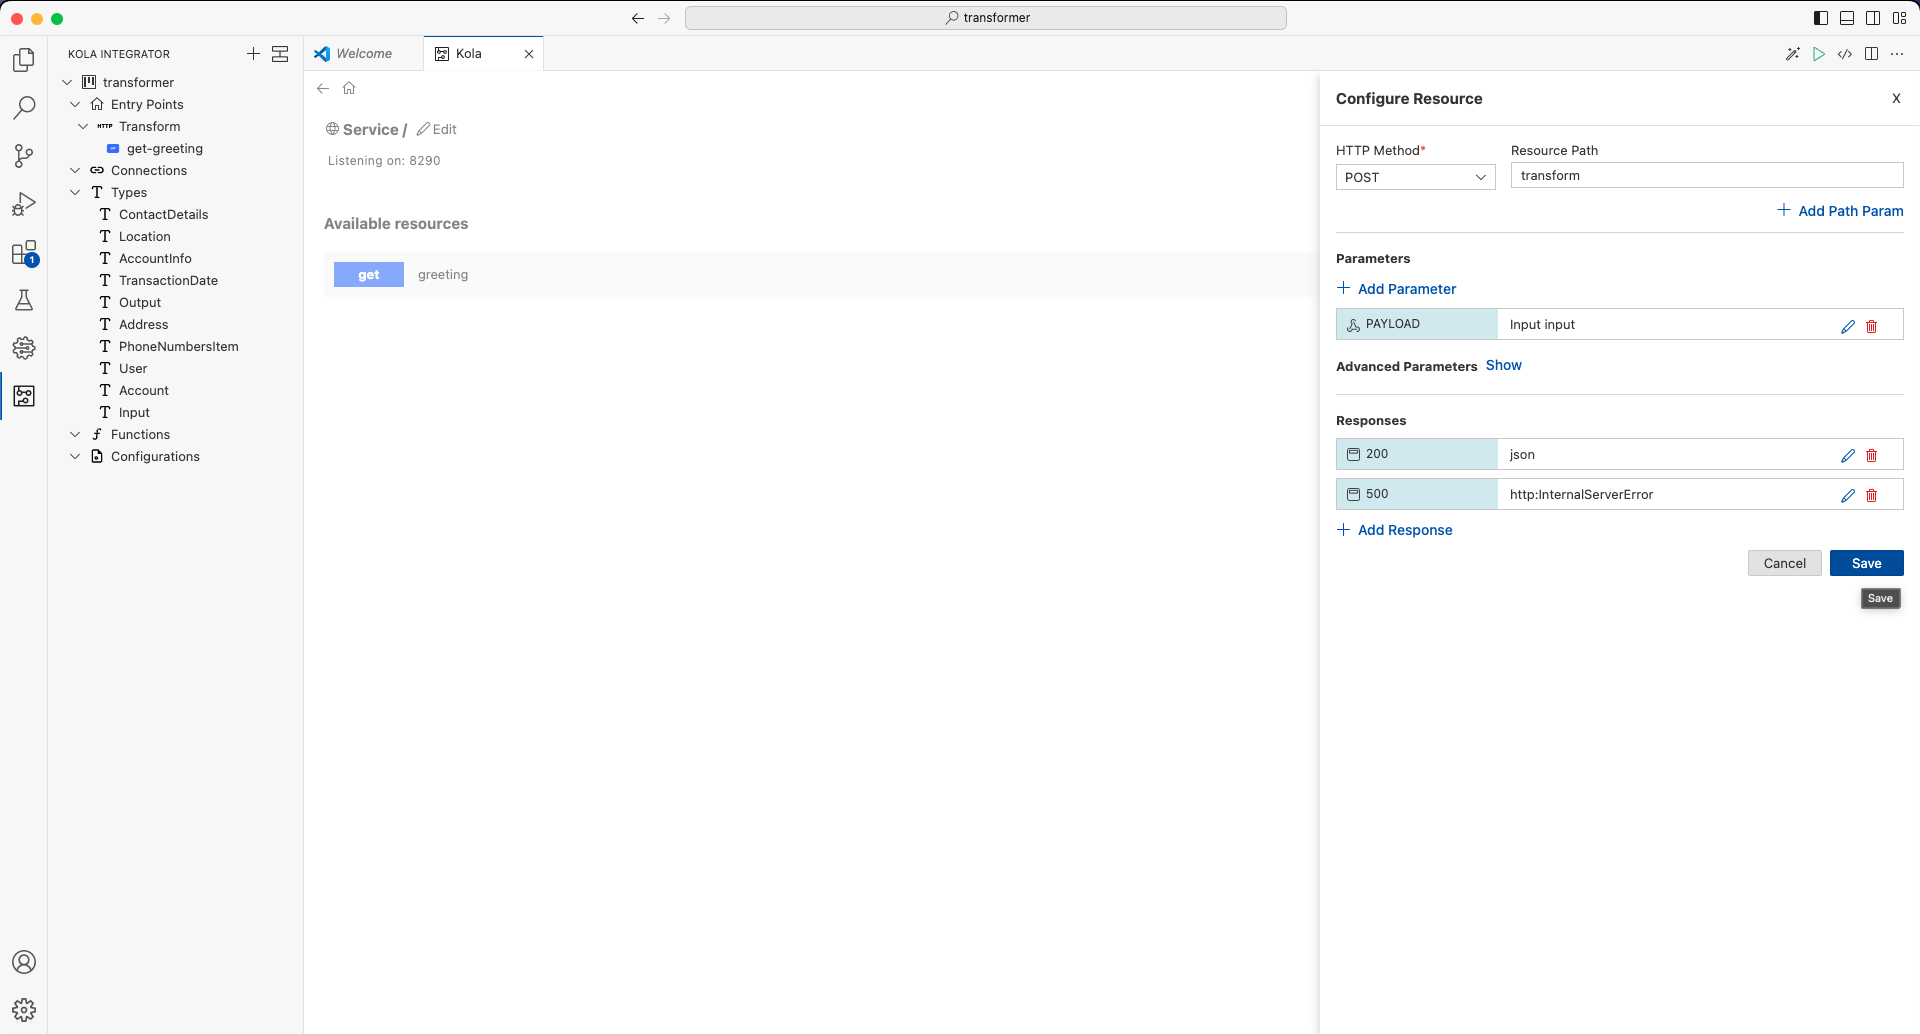
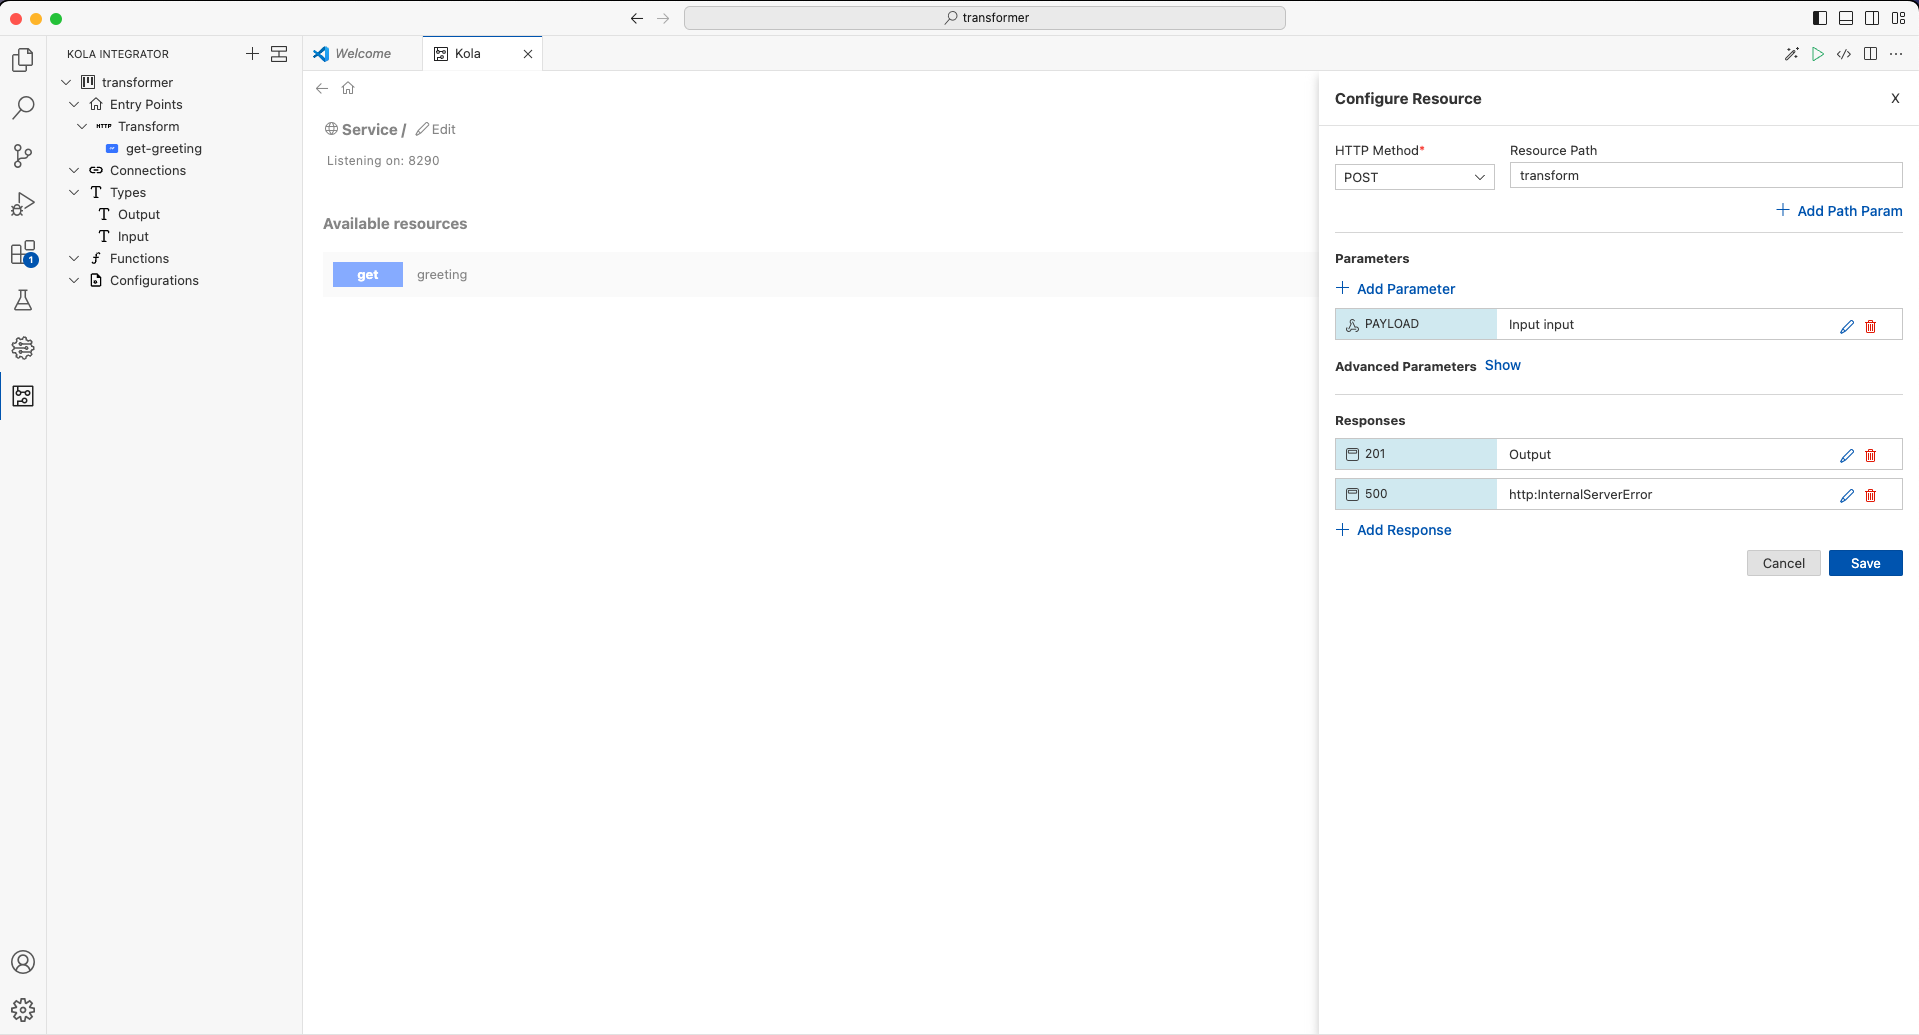
Deployed 7af762c with MkDocs version: 1.4.2

diff --git a/learn/data-mapping/index.html b/learn/data-mapping/index.html
@@ -1108,7 +1108,7 @@ This documentation is a work in progress.
 <li>Change the resource HTTP method to <strong><code>POST</code></strong>.</li>
 <li>Change the resource name as <code>transform</code>.</li>
 <li>Add a payload parameter named <code>input</code> to the resource of type <code>Input</code>. </li>
-<li>Change return type of the <code>200</code> response to type <code>Output</code>.</li>
+<li>Change the response status code to <code>201</code> and the return type to <code>Output</code>.</li>
 <li>
 <p>Click on the <strong><code>Save</code></strong> button to update the resource with the specified configurations. </p>
 <p><a href="https://wso2.github.io/docs-kola/assets/img/data-mapping/edit-resource.png"><img src="https://wso2.github.io/docs-kola/assets/img/data-mapping/edit-resource.png" alt="Edit Resource" width="70%"></a></p>
